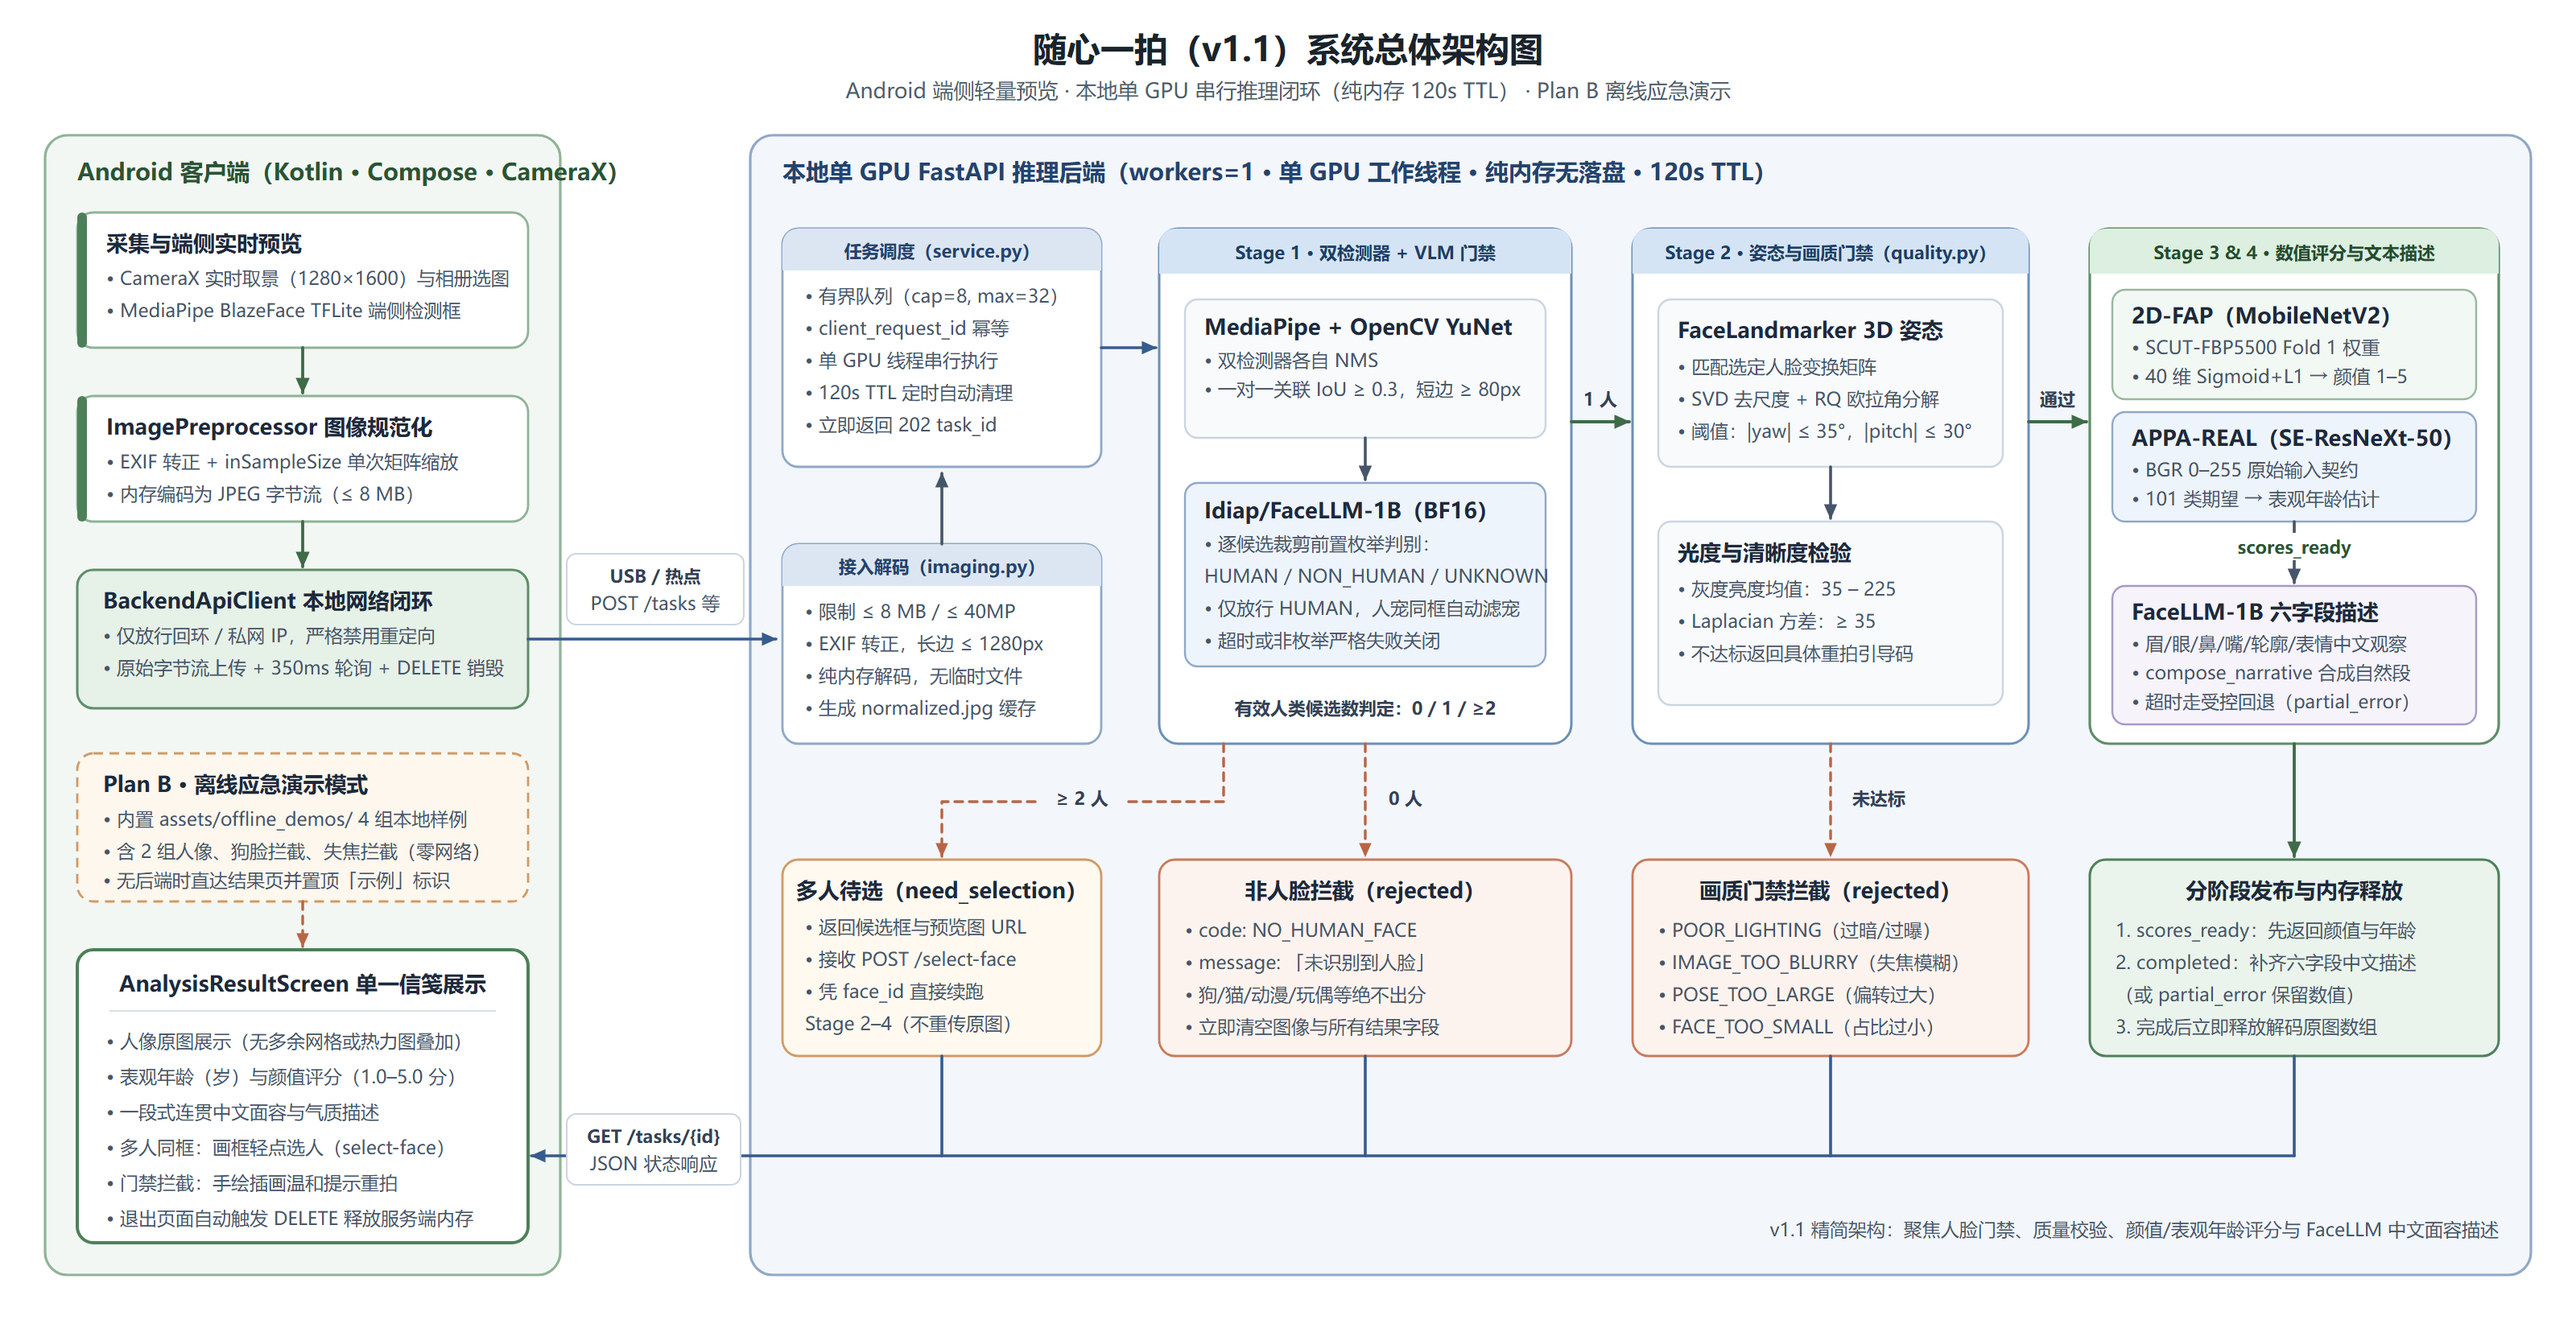
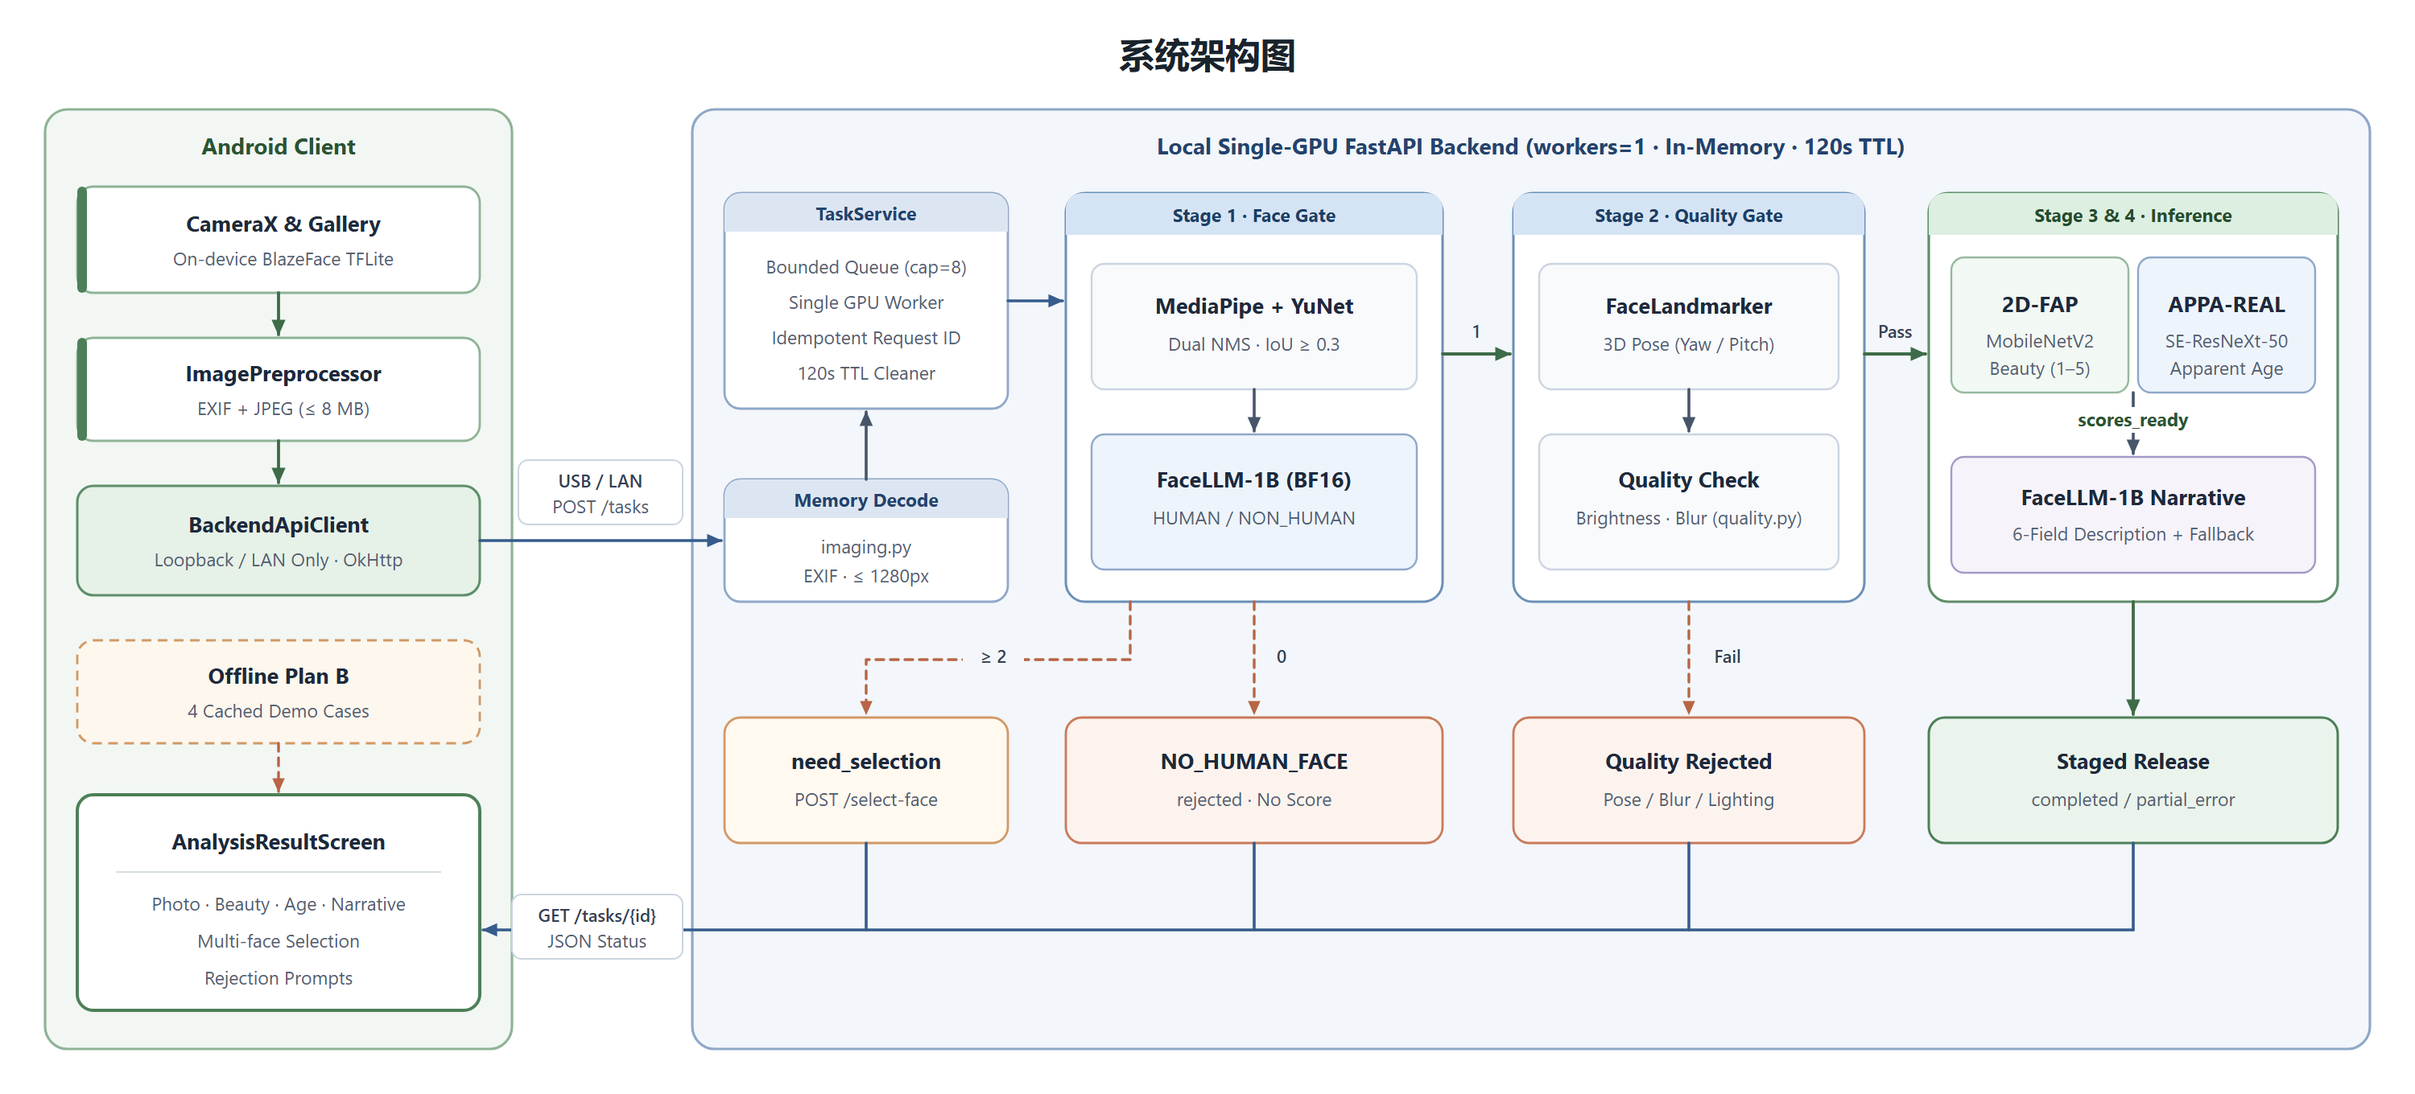
docs: simplify architecture diagram to English module-level layout

diff --git a/README.md b/README.md
@@ -10,7 +10,7 @@
 
 ## 系统架构
 
-![随心一拍 v1.1 系统总体架构图](docs/assets/architecture.png)
+![系统架构图](docs/assets/architecture.png)
 
 > 架构可编辑矢量源文件见 [`docs/assets/architecture.svg`](docs/assets/architecture.svg)。v1.1 版本已精简并移除旧版 478 点像素平面几何测量、分性别统计及 Grad-CAM / 局部模糊敏感性模块，聚焦端云协同的主链路分析体验。
 
